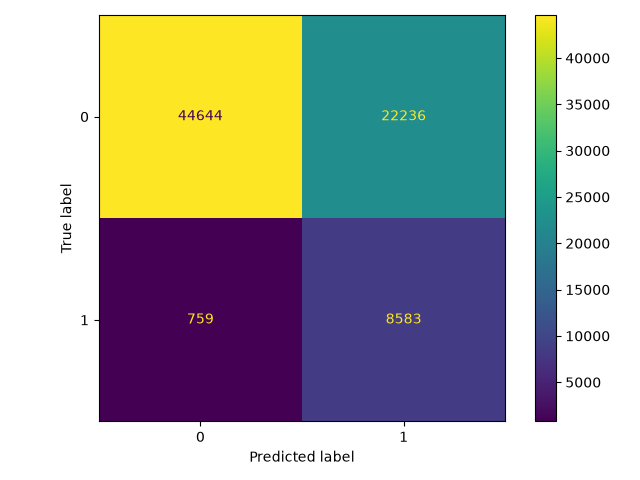
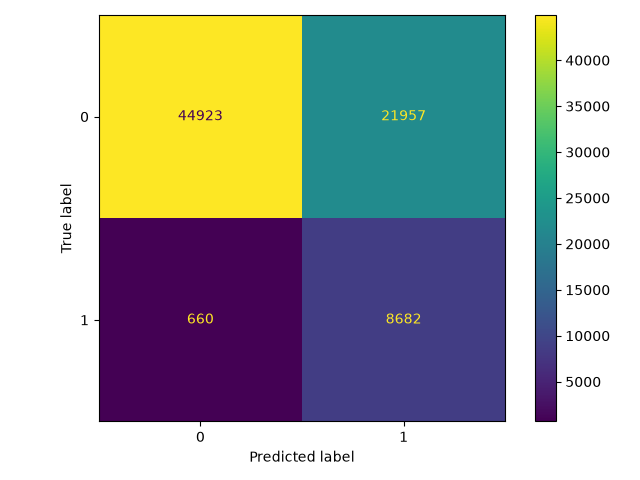
Align baseline models with optimized families

diff --git a/src/train.py b/src/train.py
@@ -4,6 +4,7 @@ from __future__ import annotations
 
 import argparse
 import tempfile
+import warnings
 from pathlib import Path
 
 import joblib
@@ -11,11 +12,8 @@ import matplotlib.pyplot as plt
 import mlflow
 import mlflow.sklearn
 import pandas as pd
-from sklearn.ensemble import (
-    ExtraTreesClassifier,
-    HistGradientBoostingClassifier,
-    RandomForestClassifier,
-)
+from lightgbm import LGBMClassifier
+from sklearn.ensemble import RandomForestClassifier
 from sklearn.linear_model import LogisticRegression
 from sklearn.metrics import (
     ConfusionMatrixDisplay,
@@ -27,10 +25,17 @@ from sklearn.metrics import (
 )
 from sklearn.pipeline import Pipeline
 from sklearn.tree import DecisionTreeClassifier
+from xgboost import XGBClassifier
 
 from config import MLFLOW_EXPERIMENT, MLFLOW_TRACKING_URI, MODEL_DIR, MODEL_STAGE, RANDOM_STATE
 from data import load_data, split
 from features import build_preprocessor, clean_data, validate_clean_data
+
+warnings.filterwarnings(
+    "ignore",
+    message="X does not have valid feature names",
+    category=UserWarning,
+)
 
 
 def build_models(c: float = 1.0, max_iter: int = 1000) -> dict[str, Pipeline]:
@@ -53,15 +58,19 @@ def build_models(c: float = 1.0, max_iter: int = 1000) -> dict[str, Pipeline]:
             n_jobs=-1,
             random_state=RANDOM_STATE,
         ),
-        "extra_trees": ExtraTreesClassifier(
+        "xgboost": XGBClassifier(
+            eval_metric="logloss",
             n_estimators=100,
-            class_weight="balanced",
+            max_depth=3,
+            learning_rate=0.1,
             n_jobs=-1,
             random_state=RANDOM_STATE,
         ),
-        "hist_gradient_boosting": HistGradientBoostingClassifier(
-            max_iter=100,
+        "lightgbm": LGBMClassifier(
+            class_weight="balanced",
+            n_estimators=100,
             random_state=RANDOM_STATE,
+            verbose=-1,
         ),
     }
 

diff --git a/README.md b/README.md
@@ -150,8 +150,8 @@ Le fichier `src/train.py` entraine et compare cinq modeles :
 - `logistic_regression`
 - `decision_tree`
 - `random_forest`
-- `extra_trees`
-- `hist_gradient_boosting`
+- `xgboost`
+- `lightgbm`
 
 Les metriques suivies sont :
 
@@ -182,13 +182,13 @@ Sur le dataset complet, le benchmark actuel donne :
 
 | modele | accuracy | precision | recall | f1 | roc_auc |
 | --- | ---: | ---: | ---: | ---: | ---: |
+| lightgbm | 0.703 | 0.283 | 0.929 | 0.434 | 0.858 |
 | decision_tree | 0.698 | 0.278 | 0.919 | 0.427 | 0.846 |
 | logistic_regression | 0.641 | 0.251 | 0.974 | 0.399 | 0.839 |
-| extra_trees | 0.862 | 0.350 | 0.150 | 0.210 | 0.825 |
 | random_forest | 0.867 | 0.359 | 0.114 | 0.173 | 0.832 |
-| hist_gradient_boosting | 0.877 | 0.400 | 0.002 | 0.005 | 0.857 |
+| xgboost | 0.877 | 0.000 | 0.000 | 0.000 | 0.856 |
 
-Le modele retenu par defaut est donc `decision_tree`, car il obtient le meilleur `f1` sur
+Le modele retenu par defaut est donc `lightgbm`, car il obtient le meilleur `f1` sur
 ce benchmark.
 
 Artefacts generes localement :